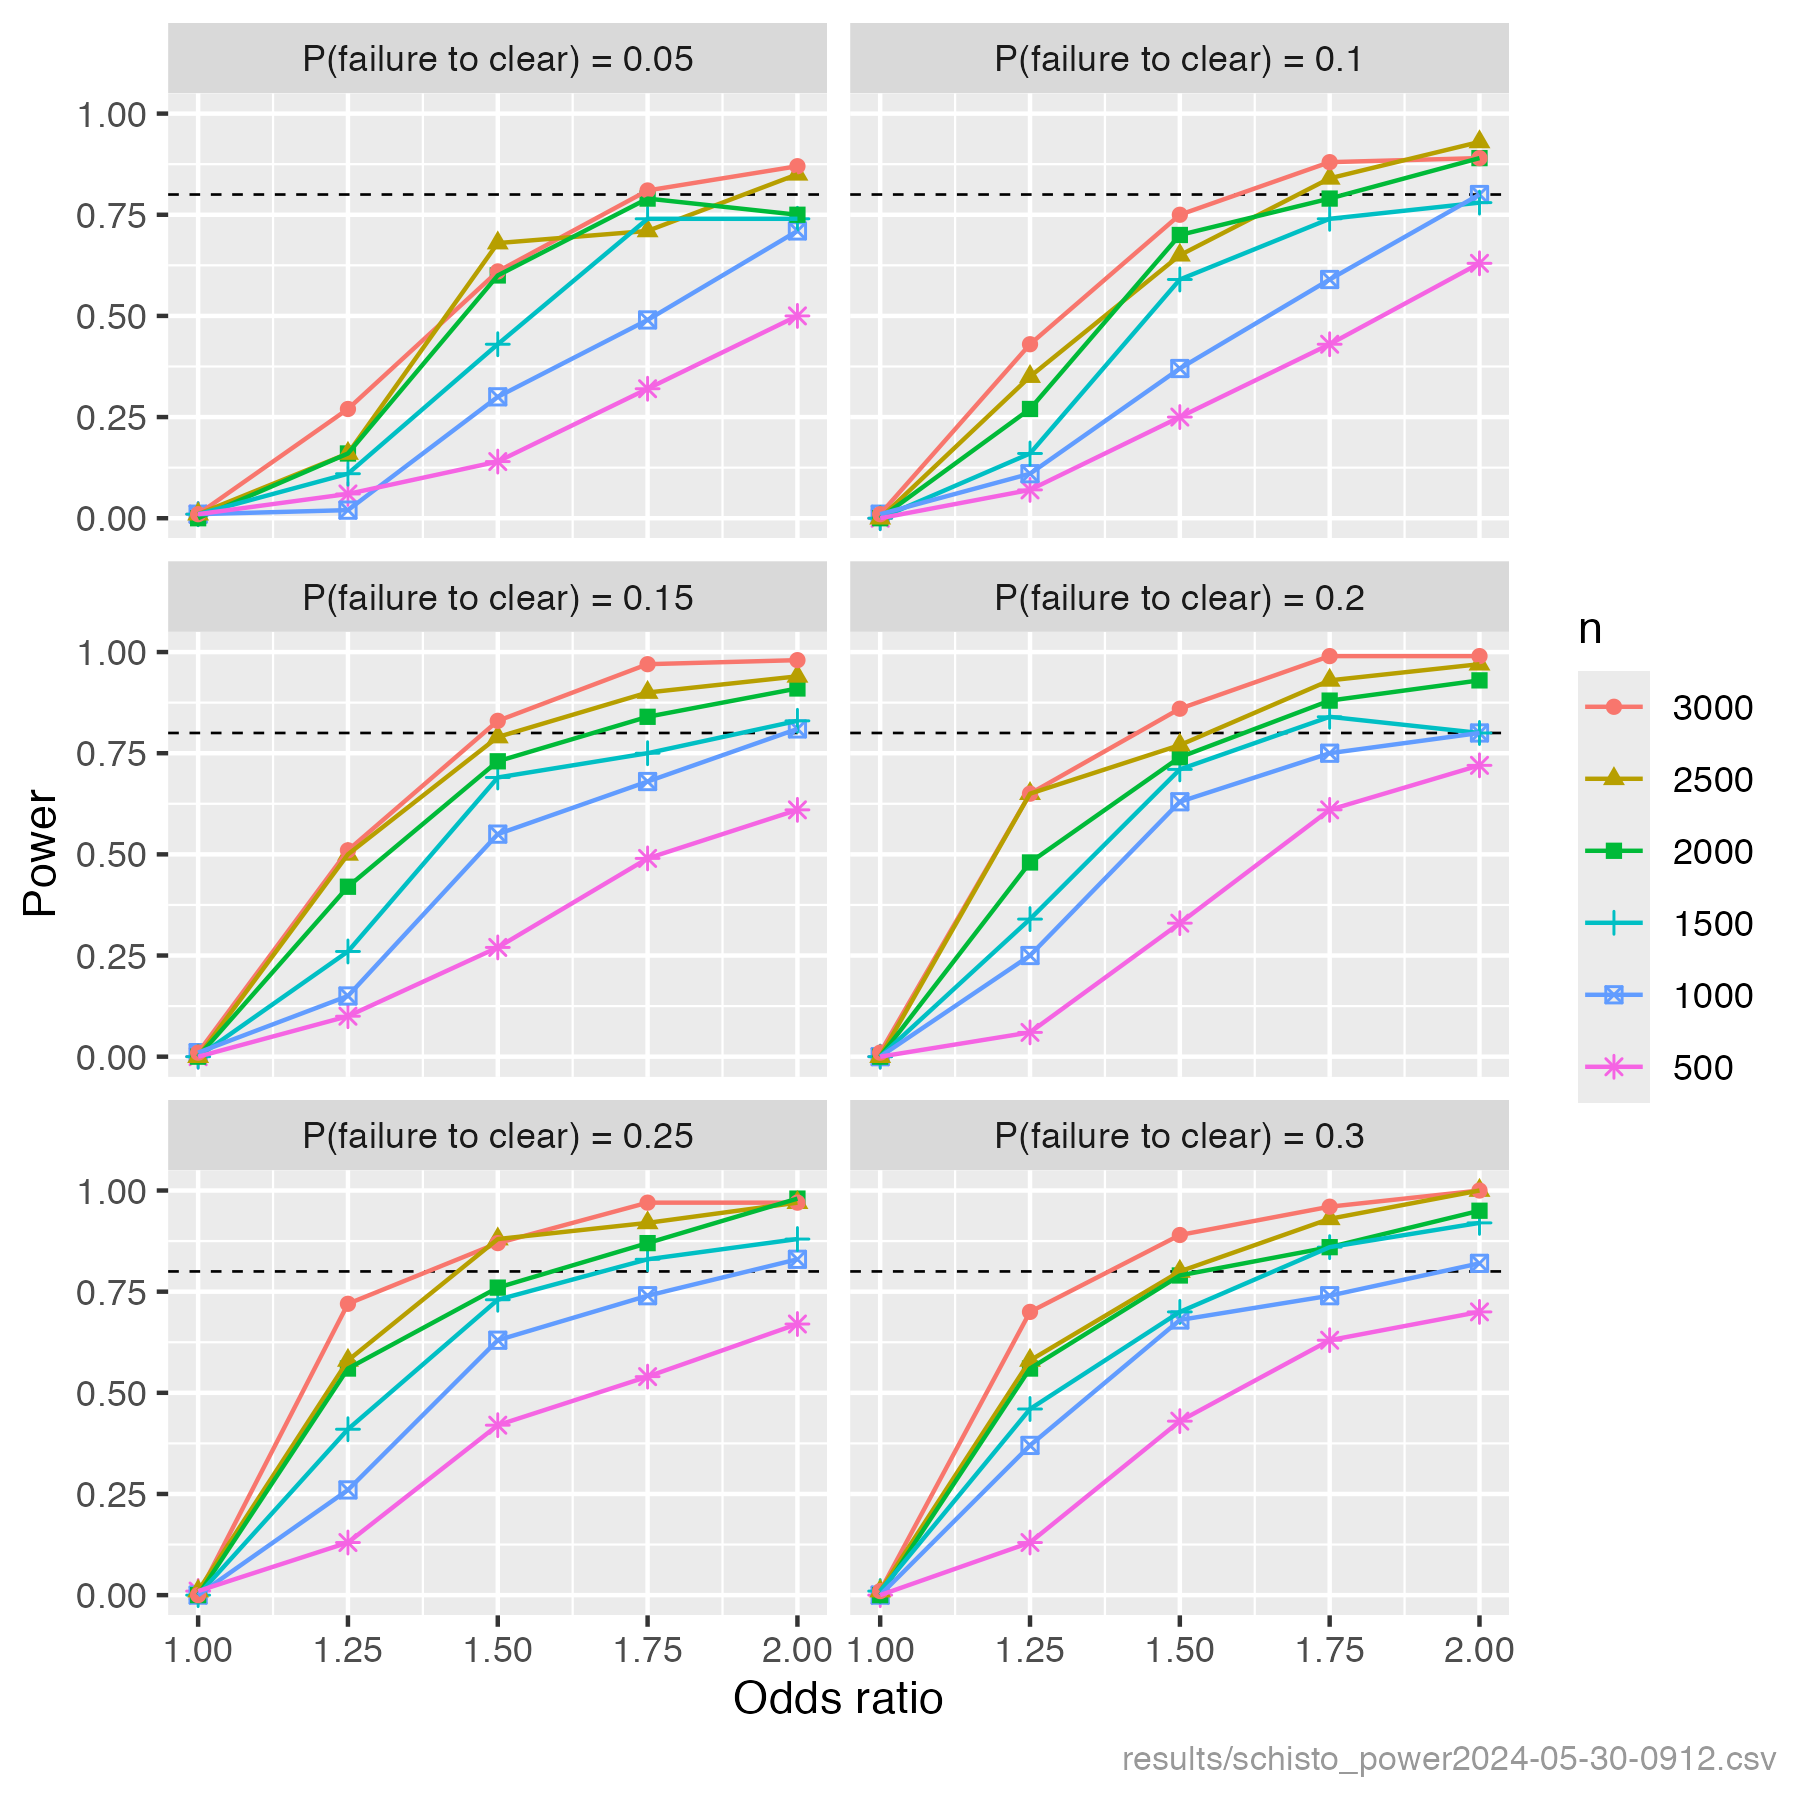
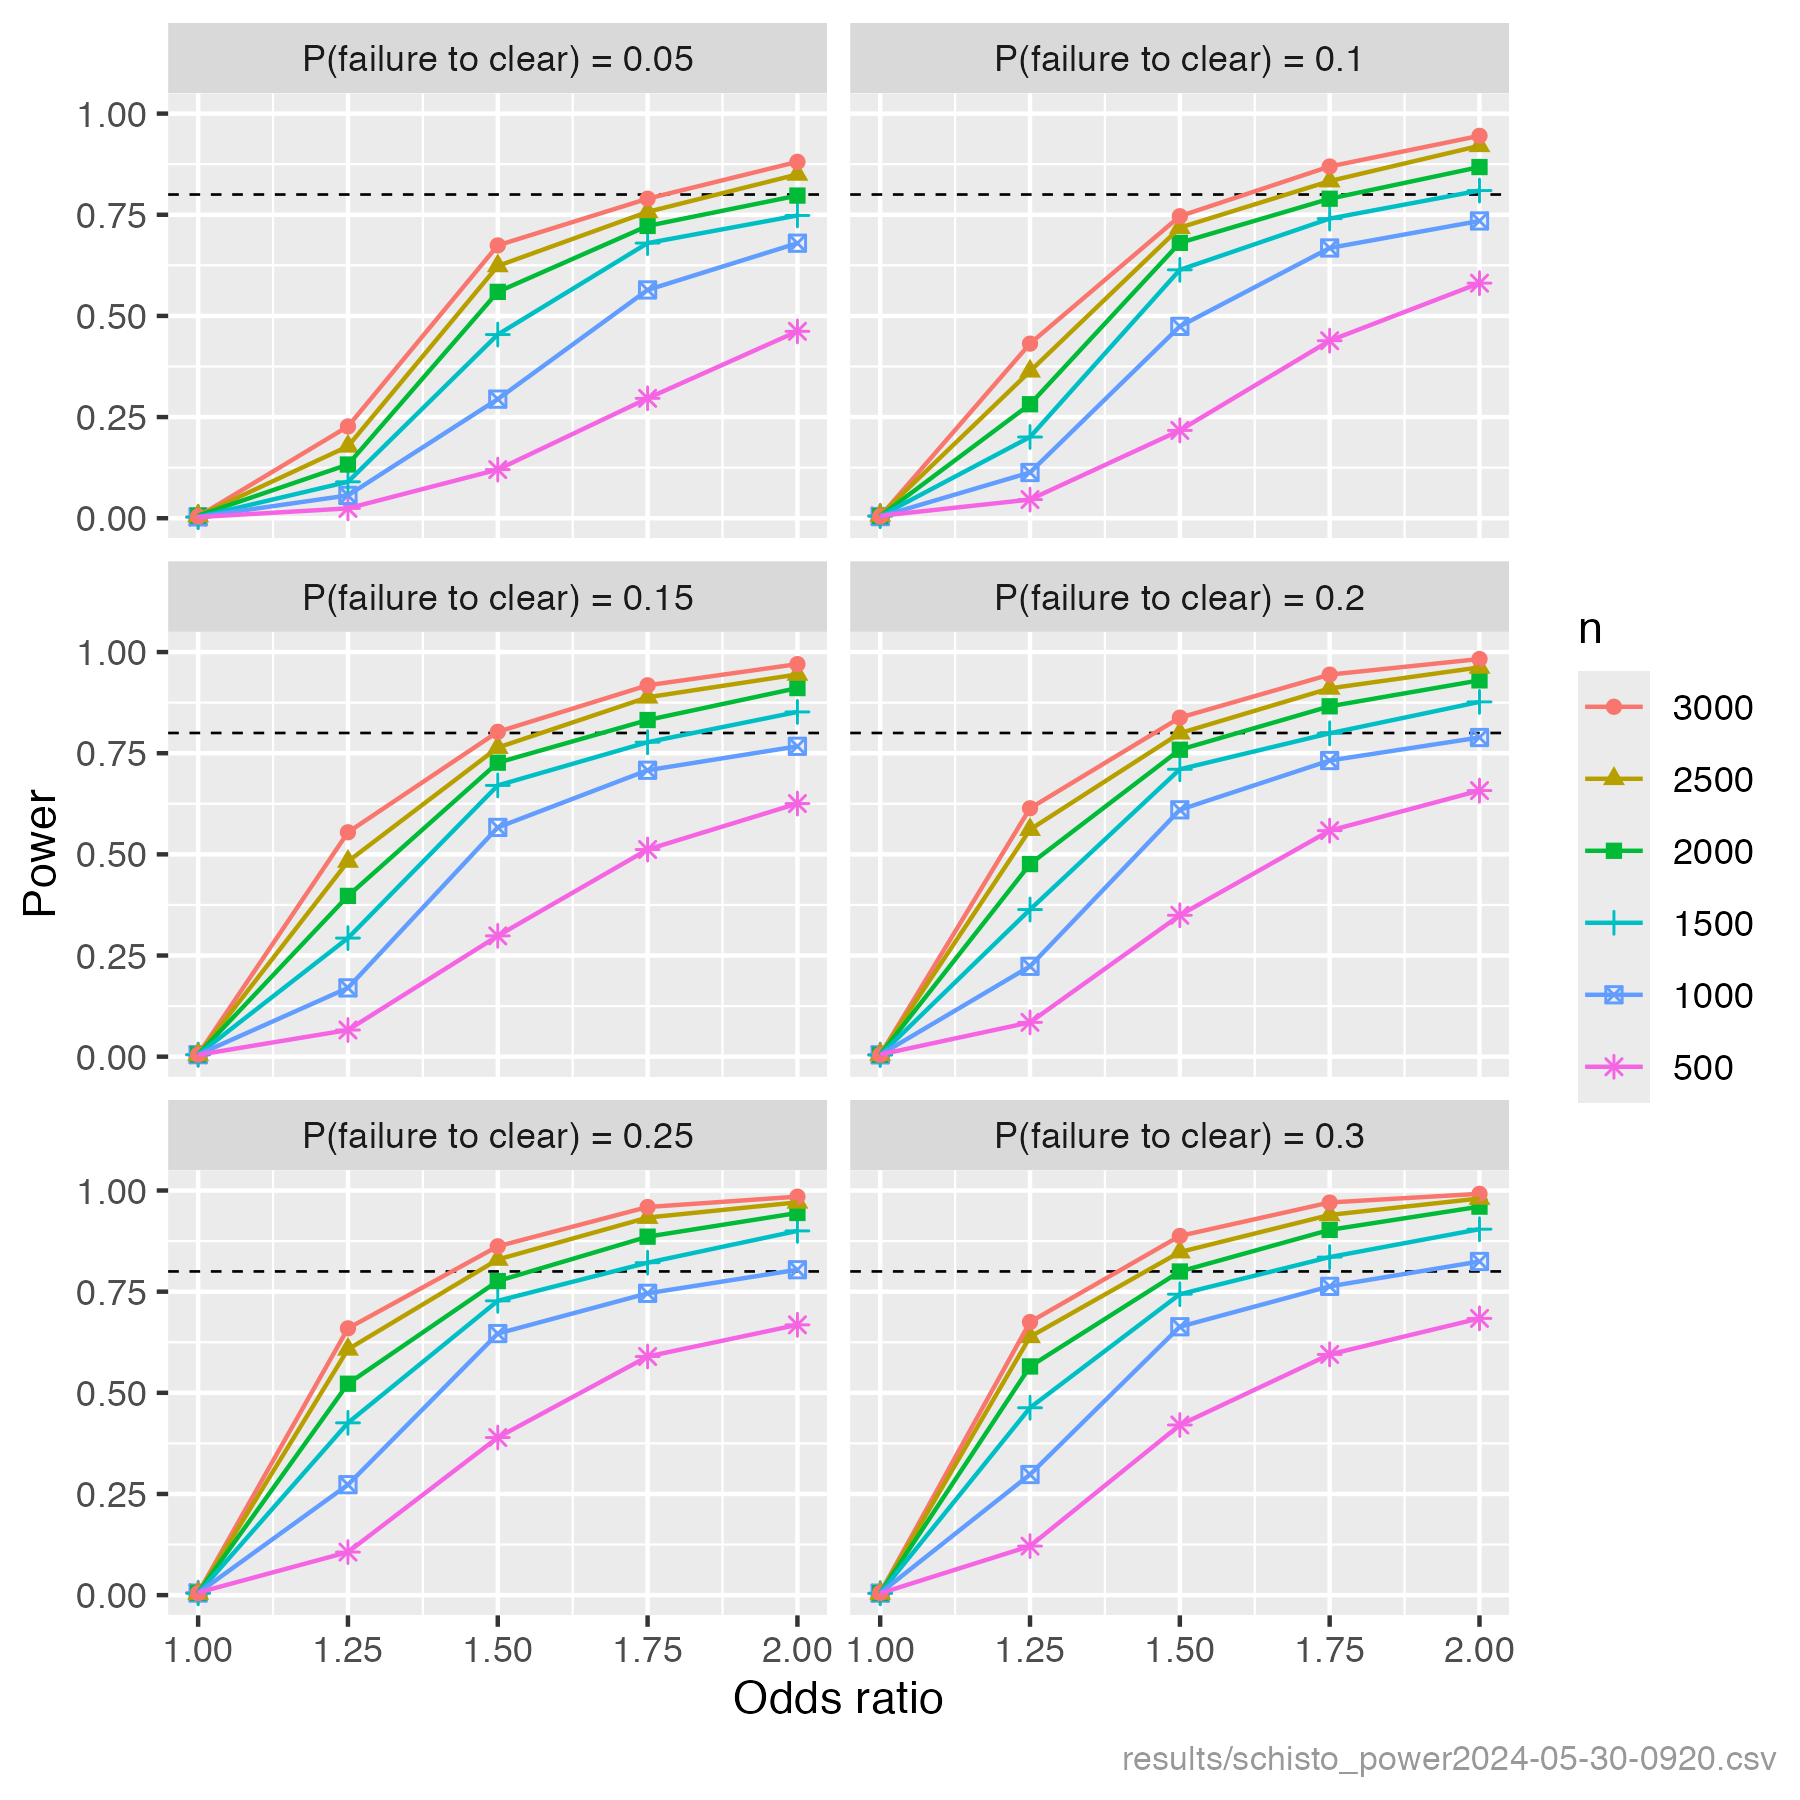
Update readme with results plot, re-run power analysis

diff --git a/README.md b/README.md
@@ -8,7 +8,7 @@
 
  ### Methods
 
- The aim of the power analysis is to estimate power to detect drivers of praziquantel treatment failure in individuals infected with schistosomiasis. This is a simulation-based power analysis, where the study data is simulated and analysed multiple times under varying study design scenarios, and power is estimated as the proportion of simulated analyses that achieve the desired outcome (detecting a true driver of treatment failure). The association between the outcome (treatment failure) and each driver is estimated and tested in a multivariable GLM. For this analysis, power is defined as the proportion of drivers that are significantly associated with the outcome, averaged across 10 simulated data analyses per scenario.
+ The aim of the power analysis is to estimate power to detect drivers of praziquantel treatment failure in individuals infected with schistosomiasis. This is a simulation-based power analysis, where the study data is simulated and analysed multiple times under varying study design scenarios, and power is estimated as the proportion of simulated analyses that achieve the desired outcome (detecting a true driver of treatment failure). The association between the outcome (treatment failure) and each driver is estimated and tested in a multivariable GLM. For this analysis, power is defined as the proportion of drivers that are significantly associated with the outcome, averaged across 1000 simulated data analyses per scenario.
 
  The following assumptions are made:
 - 10 drivers are associated with the outcome, of which 4 are binary and 6 continuous. The prevalences of the binary drivers are: 0.2, 0.2, 0.2, 0.5, representing drivers such as co-infection (HIV, soil-transmitted helminths, malaria) and hybrid/resistance presence).
